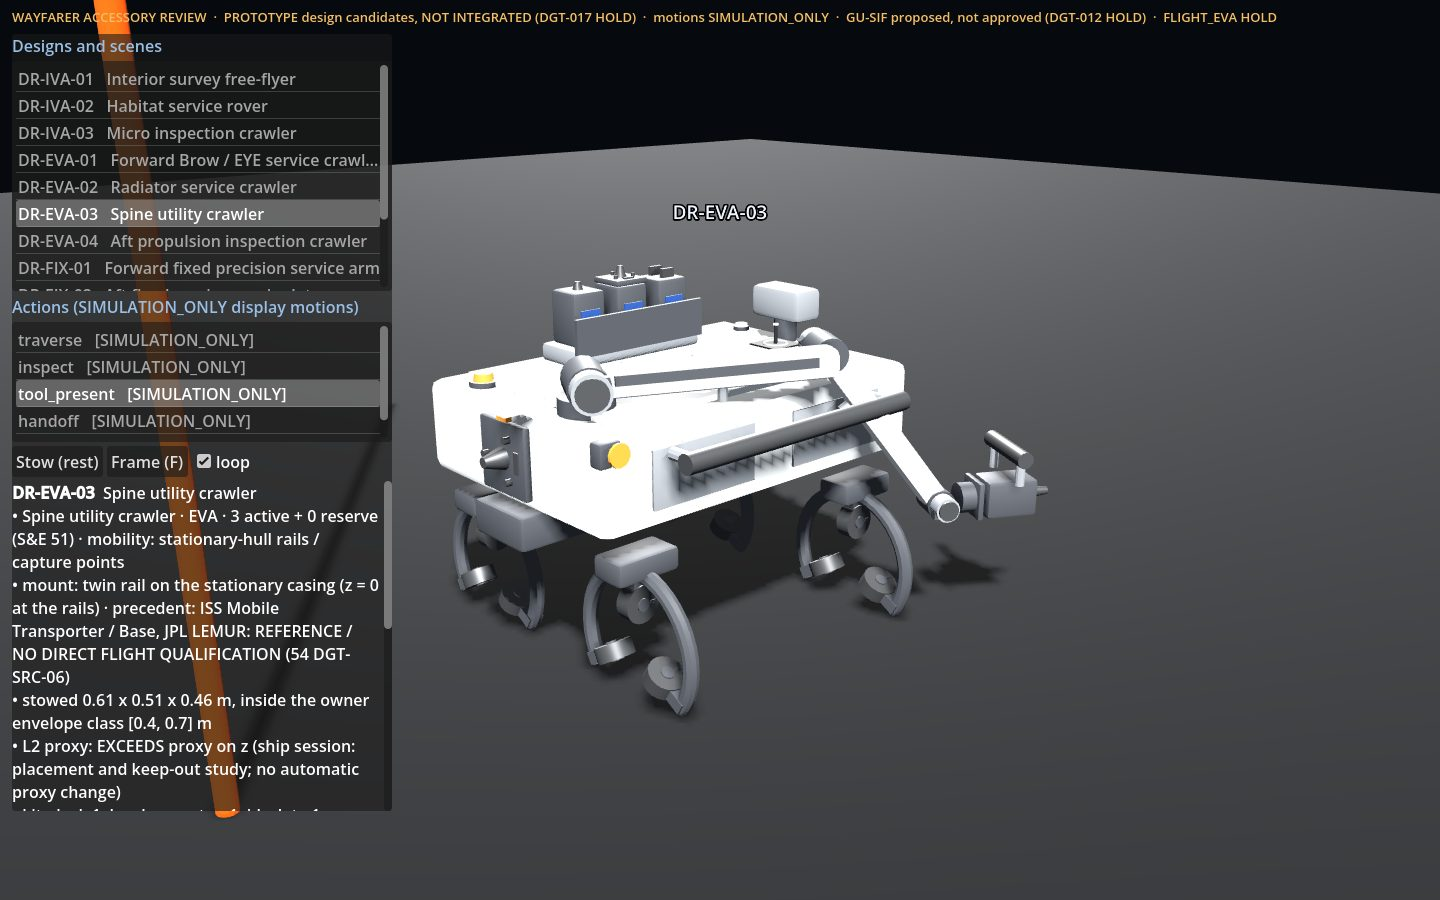
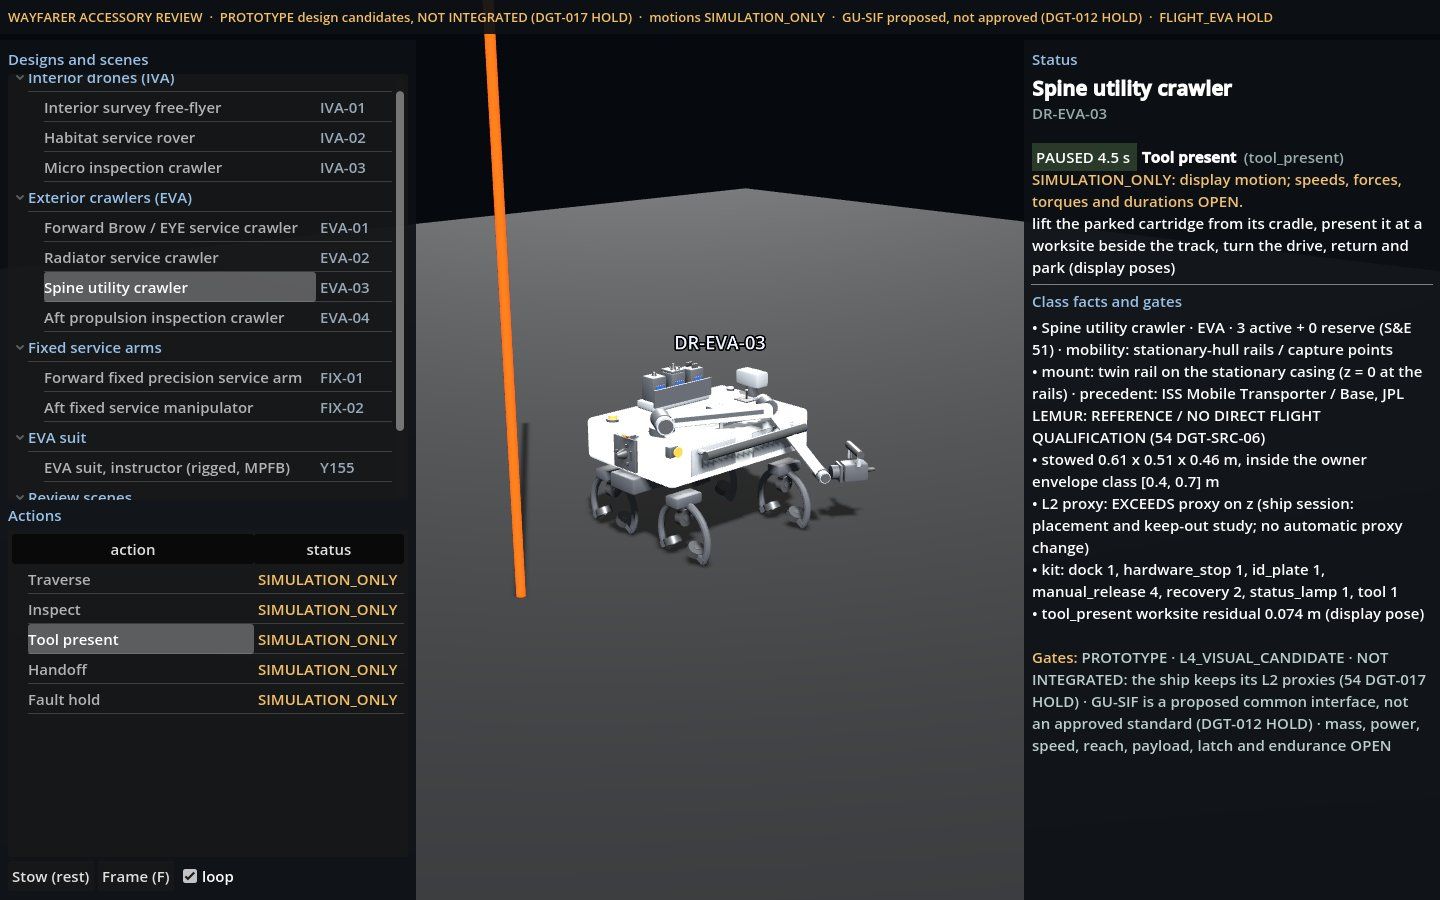
ACC-004: viewer usability pass and owner review / handoff register
- Accessory viewer: grouped, wrapping class names with short IDs; action /
  status table (SIMULATION_ONLY or LOCKED); status card showing the playing,
  paused or at-rest action and the last refused locked action with its
  reason; facts and gates column; model centred in the free view. Locked
  inherited actions are clickable but still refused; the check still fails
  if one can play. Presentation only: manifest, GLBs and actions unchanged.
- accessories/review/HANDOFF.md: visual decisions approvable now, engineering
  decisions for the canonical Drive sheets (DGT-012, DGT-017, corrected drone
  / placeholder clearances, rail section, docking stations, suit-reference
  readbacks, parked compact PLSS), ship-session requests.
- Refreshed viewer review images; 25_compare_viewer.jpg before / after.

Claude-Session: https://claude.ai/code/session_01KmRq7x1dXMGtPYVkzpQUgw

diff --git a/accessories/review/HANDOFF.md b/accessories/review/HANDOFF.md
@@ -1,0 +1,55 @@
+# Accessory owner review and handoff register (2026-10-24)
+
+Scope: the `claude/wayfarer-accessories` branch at c3cb062 (third prototype milestone) plus the viewer usability pass. Everything here is
+**PROTOTYPE**. Accepting it as a review milestone neither merges it into `main`, releases an engineering gate nor approves spacecraft
+hardware. Detail and evidence are in docs/ACCESSORIES.md, and the images are indexed in this folder's README.
+
+The register has three parts. **A** lists visual choices the owner can accept or reject in chat now; they need no Drive work and change
+no engineering value. **B** lists engineering decisions that belong in the canonical Drive workbooks, where this repository only reads
+the owner rows. **C** lists ship-session items: this branch only requests them.
+
+## A. Visual decisions: approvable now
+
+Accepting an item makes it the visual direction for that accessory (`L4_VISUAL_CANDIDATE` accepted for look). It doesn't replace an L2
+proxy, settle a size or rate any part.
+
+| # | Decision | Evidence | Note |
+| --- | --- | --- | --- |
+| A1 | GU drone family grammar: white vault, captive rail trucks, GU-SIF ends, GU stripe and plate | 01, 02-10 | the shape of GU-SIF is visual only; the standard is B2 |
+| A2 | Functional identity of DR-EVA-01 (ORU guide frame, Brow inspection head), DR-EVA-02 (deflector, silvered faces, IR turret) and DR-EVA-03 (tool magazine, crew rail, tether anchor) | 21, 05-07 | sizes are unchanged and every body stays inside its envelope class; equipment ratings OPEN |
+| A3 | Docking cradle look on review stands (pedestal, V-guides, umbilical, lamp, orange release) | 24 | review fixtures, not ship stations; ratings are B2/B5 |
+| A4 | Suit fidelity: boot shells and toe cap, knee and elbow covers, layer finishes (textile, hard shells, removable PLSS modules, grips), touch-point wear | 20, 11, 12 | wear is a soft vertex colour, not a texture |
+| A5 | PROTOTYPE lettering as placeholders: "GREAT UNION", the role line, "WF-Y155-EVA PROTOTYPE", "O2 / CO2 · SERVICE / COOL" | 20, 11 | text only, no emblem; owner Art / Fashion markings replace it |
+| A6 | Glove grasp as a display pose and its close-up view | 22, 16 | the middle of the handle stays hidden inside the glove; grip force and glove torque OPEN |
+| A7 | Viewer presentation: suit EVA actions playable, inherited crawl / climb / idle / walk / sit shown LOCKED and refused | 23, 25 | a labelling decision, not an approval of the suit's mobility; FLIGHT_EVA stays HOLD |
+| A8 | Viewer layout (grouped class names, action / status table, status card) | 25, 18, 19 | presentation only |
+
+## B. Engineering decisions: canonical Drive work
+
+Nothing on this branch changes these. Each one needs an owner row (or its answer) in the named workbook before any value moves into
+`data/` or a reference.
+
+| # | Item | State on the branch | What the owner decides | Where |
+| --- | --- | --- | --- | --- |
+| B1 | **DGT-017** L2 interface gate before detailed meshes | HOLD. The bodies are isolated studies; the ship keeps its L2 proxies | release the gate for one class at a time, after B3 and B5 | S&E 54_DRONE_VALIDATION DGT-017 |
+| B2 | **DGT-012** GU-SIF / cartridge standard | proposed visual interface | approve or replace it. Needs: latch preload under 1.5 g thrust (F_axial = m × 1.5 g0, m OPEN), contact rating for HIGH_POWER charge, mate / demate life, keying, gloved manual-release force, power-loss state, tests (docs/ACCESSORIES.md "GU-SIF") | S&E 54 DGT-012 and DGT-SRC rows |
+| B3 | **Drone / placeholder clearance** (corrected) | stowed body over its L2 proxy in height: DR-EVA-01 **+0.12 m** (0.48 vs 0.36), DR-EVA-02 **+0.03 m** (0.39 vs 0.36), DR-EVA-03 **+0.04 m** (0.46 vs 0.42), DR-EVA-04 +0.11 m (0.35 vs 0.24). All inside the S&E 51 envelope classes; interior classes fit. The 042ee65 figures were 29 mm high (the stand's dock fitting was counted) | either grow the proxies after a placement and keep-out study or cap the body height; no automatic proxy change | S&E 51_DRONE_FLEET col G (classes); placement study by the ship session (C2) |
+| B4 | **Rail section** | the candidate truck needs Ø60 mm rail, a 32 mm web corridor to 75 mm below the rail centre and a Ø206 mm swept envelope (rail_section.svg) | rail section, web spacing, mount pattern; loads and ratings OPEN | owner interface row via the TOC (S&E 15_MODEL_INTERFACES); ship geometry by the ship session (C3) |
+| B5 | **Docking stations** | cradles exist only on review stands. Ship stations stay where the ship model puts them (DS-10 Brow docks, DS-11 SP-51 HOME docks, DS-13 spine track with operations HOLD, DS-14 aft cradles) | dock design: latch, charge and alignment ratings, cradle form at each DS position | S&E 53 (DOP-12 power OPEN) / 54 (DGT-012); positions by the ship session |
+| B6 | **Suit-reference readbacks** | torso width, depth, circle, access classes, sweep and EVA coverage are identical to the committed references. Moved: height 1.921 / 1.835 m (+3 / +2 mm, boot shell standoff); EVA_SUITED projected area max 1.280 / 1.182 m² (+0.002 / −0.001), min 0.473 / 0.439 m² (side rescue handles, 042ee65). Inherited crawl / climb coverage FAIL unchanged and not suppressed | accept the readbacks (then the owner's `workflow.py eva` step refreshes the references) or reject the boot standoff; the projected area feeds the thermal case | S&E 44_EVA_SUIT_BLENDER (ASSET-08 boots), 45_EVA_ENGINEERING_CASES H-06 |
+| B7 | Compact PLSS (ASSET-10) | **parked**. Baseline pack unchanged; every subsystem size is OPEN; the 0.90 m ring-B port is not an owner-required suited route (EVA-040) | nothing until EVA-051's calculation releases masses, capacities and energy | S&E 43 EVA-051, 44 ASSET-10 |
+| B8 | All physics | OPEN: drone mass, power, speed, reach, payload, latch strength, thermal endurance; suit life support, glove torque, grip | values in owner rows; until then the tests keep them OPEN | S&E 51 / 53 / 54, 43 / 45 |
+| B9 | FLIGHT_EVA | HOLD; every EVA scene is a training simulation | not opened by an animation or collision check | S&E 43 / 44 QA |
+
+## C. Ship-session handoff (requests only; the ship session owns the geometry)
+
+| # | Request | From this branch |
+| --- | --- | --- |
+| C1 | habitat rover deck-guide path near the DS-05/07 floor cassettes (the 40 mm review channel is provisional) | 17 |
+| C2 | external drone placement and keep-out study with the corrected heights (B3) | 01, 21, B3 table |
+| C3 | rail section, web spacing and mount pattern from the ship side (B4) | rail_section.svg |
+| C4 | source map: add S&E `56_DRONE_TECH_ANCESTRY!A1:I9` next to `[sources.drone_fleet]` (shared source routing) | docs/ACCESSORIES.md request 4 |
+| C5 | integration of an accepted class (after B1): its GLB, export bindings and dock anchors | not started; this branch edits no ship file |
+
+Branch state: isolated and not rebased or merged. No accepted reference, shared parameter, registry or ship-runtime file was edited. At
+c3cb062 the scoped quick pipeline reported 0 geometry changes (`runs/20261024T132405Z-quick`, kept as evidence).

diff --git a/docs/ACCESSORIES.md b/docs/ACCESSORIES.md
@@ -199,7 +199,7 @@ wearer's unsuited character rig and are not suited EVA operations, so they can n
 - `eva_fit` marks every coverage row `use = EVA` or `NOT_SUITED_EVA` and reports `eva_coverage_pass` and `not_suited_eva_failures` beside
   the unchanged overall `coverage_pass` (still false: nothing was relaxed to hide the failures).
 - The accessory viewer shows the suit with its 15 EVA actions playable and the five inherited ones listed `LOCKED_NOT_SUITED_EVA`,
-  disabled, with the reason; its check fails if a locked action can play.
+  refused with the reason when picked; its check fails if a locked action can play.
 
 Climb investigation (instructor, every frame of the action rather than every 6th): 2-3 vertices per arm at the top of the upper arm,
 45-62 mm below the shoulder joint and just outside the scye bearing, exposed by up to 3.8 mm (2.5 mm at the check's 6-frame step) in the
@@ -246,8 +246,15 @@ capacities and energy, and until a qualified route needs the smaller section. No
 loads the GLBs from `generated/` at run time (no editor import), lists the nine designs, the rigged suited instructor and the two scenes
 (EVA tool handoff, interior drones), plays every action, and labels each motion SIMULATION_ONLY and each interface as unverified (DGT-017,
 DGT-012, FLIGHT_EVA HOLD). The suit's 15 EVA actions play; its five inherited unsuited actions are listed `LOCKED_NOT_SUITED_EVA`,
-disabled and refused (the check fails if one can play). The suit GLB comes from the ship's EVA exporter run into the stage's run folder
+refused when picked, with the reason in the status card (the check fails if one can play). The suit GLB comes from the ship's EVA exporter run into the stage's run folder
 (`export/eva_gltf.py --out <run>/suit`), never into `godot/generated/`.
+
+Layout (usability pass after c3cb062; presentation only, the manifest and actions unchanged): the gate bar runs across the top; the left
+column lists the designs grouped by family (interior drones, exterior crawlers, fixed arms, suit, scenes) with the readable class name
+first and a short ID beside it, then an action / status table (readable action names; `SIMULATION_ONLY` or `LOCKED`, the reason in the
+tooltip); the right column holds a status card (class name, full ID, what the model is doing — PLAYING, PAUSED or at rest — and the last
+REFUSED locked action with its reason) above the class facts and gates. Long names wrap instead of being cut, the panels are containers
+that never overlap, and the camera centres the model and the scale post in the free view between the columns.
 
 ```bash
 python3 tools/accessory_viewer.py stage            # builds the drone GLBs and scene GLBs (Blender), fills accessories/viewer/generated/

diff --git a/accessories/review/README.md b/accessories/review/README.md
@@ -16,13 +16,15 @@ as-built prototype, never ratings.
 | `14_eva_handoff.jpg`, `15_eva_handoff_3q.jpg` | DR-EVA-03 presents its tool cartridge; the instructor in a foot restraint, tether A clipped (training fixtures) | `presentation/accessory_scene.py --scenes eva` |
 | `16_eva_grasp.jpg` | the glove closed on the cartridge crew handle, seen from the thumb / index end (contact-aware display grasp) | same |
 | `17_iva_tasks.jpg` | DR-IVA-02 at a deck guide (interface request), DR-IVA-01 perched, DR-IVA-03 at a raceway port | `accessory_scene.py --scenes iva` |
-| `18_viewer_DR-EVA-03.jpg`, `19_viewer_handoff.jpg` | the standalone Godot 4.7.2 accessory viewer: class list, actions, gate labels | `tools/accessory_viewer.py shots` |
+| `18_viewer_DR-EVA-03.jpg`, `19_viewer_handoff.jpg` | the standalone Godot 4.7.2 accessory viewer: grouped class list, action / status table, status card, class facts and gates | `tools/accessory_viewer.py shots` |
 | `20_compare_suit.jpg` | suit turnaround before (042ee65 build) and after: boot shells, knee / elbow covers, layered materials, lettering, wear | `eva_preview.py --views turnaround` (before: `--assets` on a 042ee65 build), composed |
 | `21_compare_eva_crawlers.jpg` | DR-EVA-01 / 02 / 03 before (042ee65 images) and after the functional identity pass | `drone_preview.py --views review`, composed |
 | `22_compare_grasp.jpg` | the glove grasp close-up before and after | `accessory_scene.py --scenes eva`, composed |
 | `23_viewer_suit.jpg` | the accessory viewer's suit entry: 15 EVA actions playable, the five inherited unsuited actions LOCKED | `tools/accessory_viewer.py shots` |
+| `25_compare_viewer.jpg` | the viewer before (c3cb062) and after its usability pass: suit and DR-EVA-02 entries | `tools/accessory_viewer.py shots`, composed |
+| `HANDOFF.md` | owner review and handoff register: visual decisions approvable now, engineering decisions for the canonical Drive sheets, ship-session items | written |
 | `24_dock_cradles.jpg` | DR-EVA-01 / 02 / 03 docked on their review stands: the PROTOTYPE docking cradles (review fixtures, not ship geometry) | `drone_preview.py --views cradles` |
 | `rail_section.svg` | crawler rail cross-section for the ship-session interface request: wheel capture, support web corridor, swept envelope | `presentation/rail_section.py` |
 
 Regenerate with the commands in docs/ACCESSORIES.md ("Run"); the images here are JPEG copies of the review-quality renders. The
-comparison sheets 20-22 are side-by-side composites of those renders with a label bar (no image editing beyond scaling).
+comparison sheets 20-22 and 25 are side-by-side composites of those renders with a label bar (no image editing beyond scaling).

diff --git a/TODO.md b/TODO.md
@@ -379,6 +379,7 @@ candidates of all nine classes are separate accessory assets (docs/ACCESSORIES.m
 - [ ] **I04 — Review and integrate the accessory drone bodies. OWNER REVIEW; AFTER DGT-017.** Owner review of the GU-SIF interface
   proposal (DGT-012) and the class forms (owner 2026-10-24: continue as a separate accessory prototype, not integration or canon); then
   the ship session runs the placement and keep-out study for the taller exterior bodies (interface requests 1–4 in docs/ACCESSORIES.md;
+  the owner review and handoff register is accessories/review/HANDOFF.md;
   no automatic proxy resizing), and the ship viewer uses the GLBs for the drones card and the crawler demo (the standalone accessory
   viewer already plays them). **Done when:** the bodies replace the proxies in the review views with every dock, keep-out and route check
   unchanged or re-run, and nothing implies a released capability.
